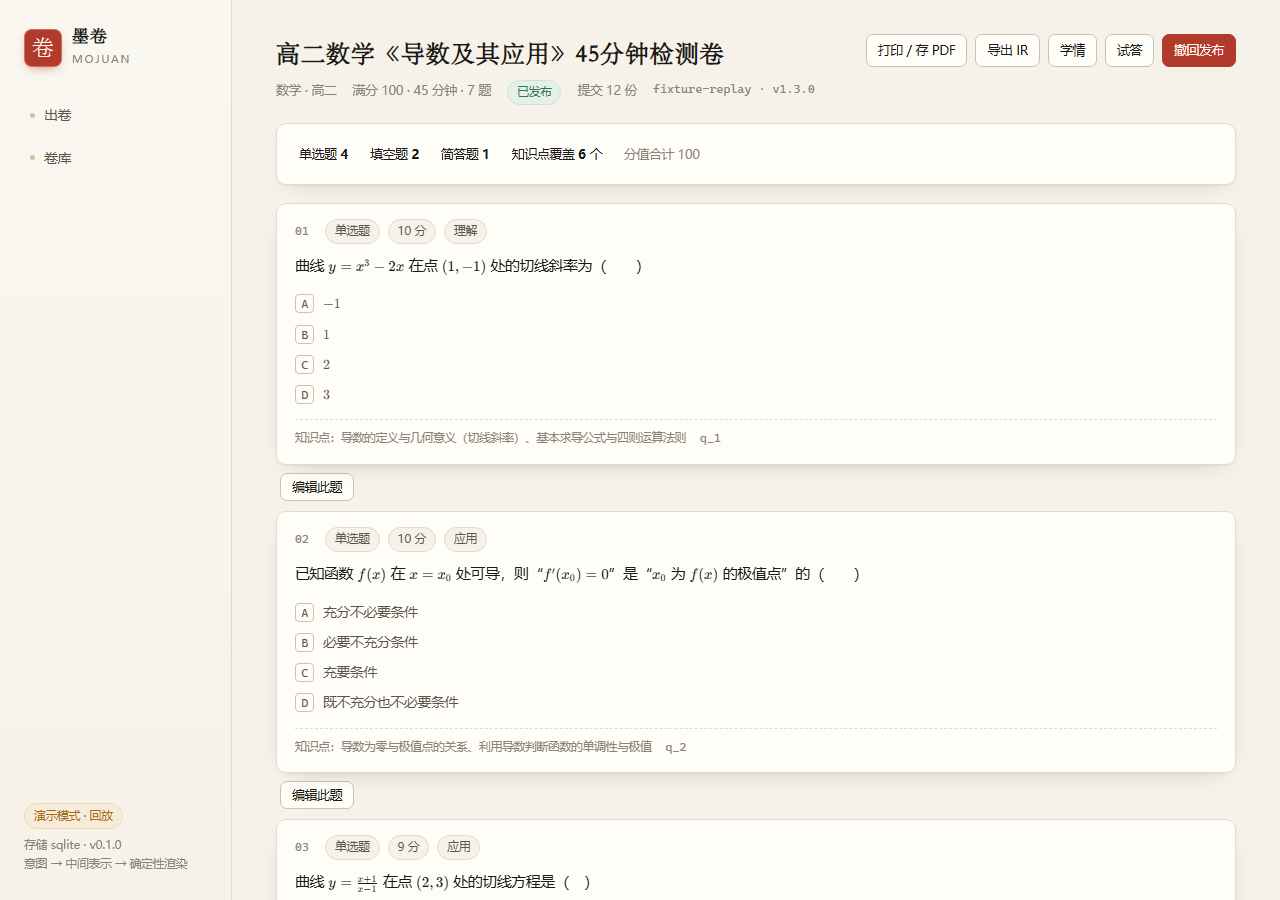
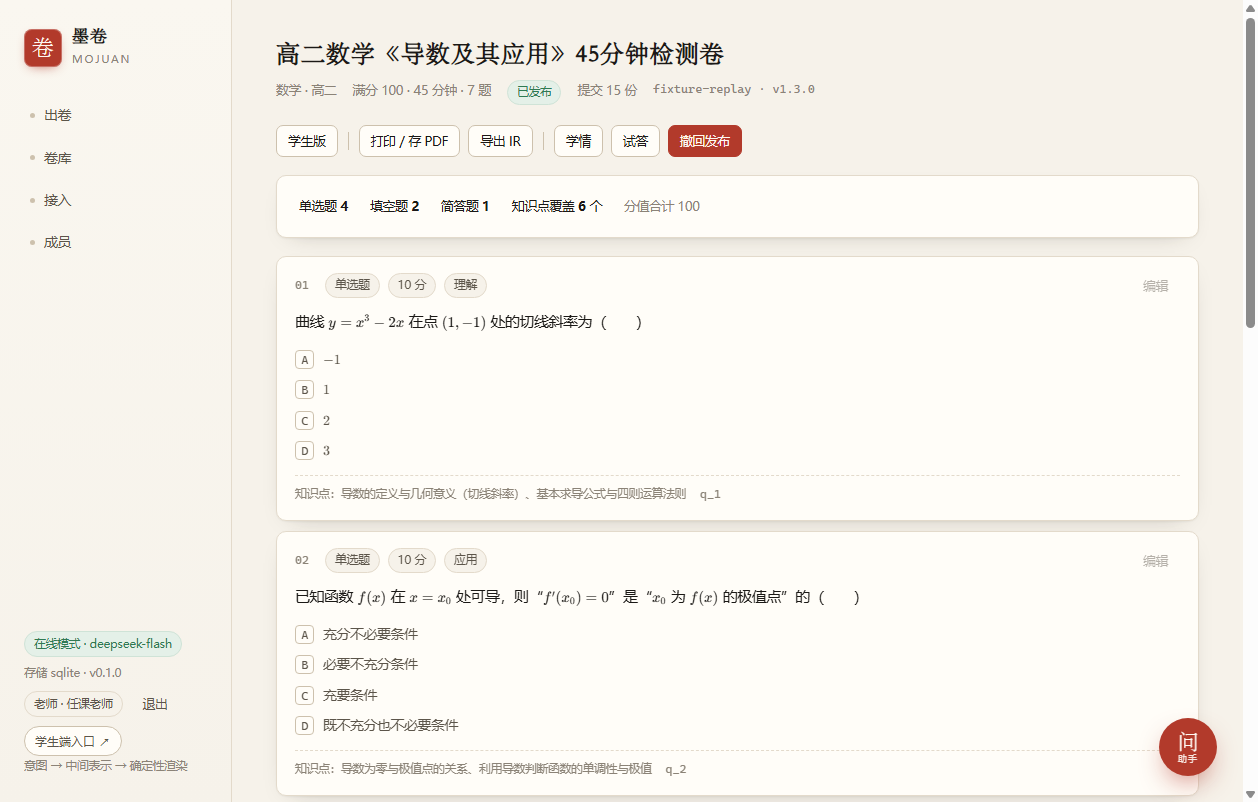
fix(student): 错题回顾入口是死链；顺手重排试卷页
学生端侧边栏的「错题回顾」href 指向 #/student——点了只是原地不动，
用户看到的就是"这个功能用不了"。

- 新增 #/reviews 列表页：按时间列出每次交卷（得分/错题数/时间），点进任一条进入回顾
- 侧边栏「错题回顾」指向该列表，并在 review 子页保持高亮
- 试卷页：题卡外挂的「编辑此题」按钮收进卡片头部右侧（hover 才明显），
  工具条按「视图 / 输出 / 动作 / 发布」分成三组加分隔线，不再六个按钮等权重要

Prompt-ID: P28

diff --git a/web/src/pages/reviews.tsx b/web/src/pages/reviews.tsx
@@ -1,0 +1,71 @@
+import { useEffect, useState } from 'react'
+import { api } from '../api.js'
+
+interface MyAttempt {
+  id: string
+  paperId: string
+  paperTitle: string
+  score: number
+  maxScore: number
+  submittedAt: string
+  wrong: number
+}
+
+/** 错题回顾列表：侧边栏那个入口之前是死链，现在是一个真的页面 */
+export function ReviewsPage({ onNavigate }: { onNavigate: (path: string) => void }) {
+  const [items, setItems] = useState<MyAttempt[] | null>(null)
+  const [error, setError] = useState<string | null>(null)
+
+  useEffect(() => {
+    api
+      .get<{ items: MyAttempt[] }>('/api/student/attempts')
+      .then((res) => setItems(res.items))
+      .catch((err: Error) => setError(err.message))
+  }, [])
+
+  return (
+    <div style={{ display: 'flex', flexDirection: 'column', gap: 18 }}>
+      <header className="page-head">
+        <h1>错题回顾</h1>
+        <p>每次交卷的错题都在这里，点进去逐题对照正确答案与解析。</p>
+      </header>
+
+      {error && <div className="statusbar err">{error}</div>}
+
+      {items === null ? (
+        <div className="stage-empty">载入中…</div>
+      ) : items.length === 0 ? (
+        <div className="card panel muted">还没有交卷记录。去「试卷」做一套吧。</div>
+      ) : (
+        <div style={{ display: 'flex', flexDirection: 'column', gap: 10 }}>
+          {items.map((attempt) => {
+            const percent = attempt.maxScore > 0 ? Math.round((attempt.score / attempt.maxScore) * 100) : 0
+            return (
+              <button
+                key={attempt.id}
+                className="card review-row"
+                onClick={() => onNavigate(`/review/${attempt.id}`)}
+              >
+                <div className="review-row-main">
+                  <strong>{attempt.paperTitle}</strong>
+                  <span className="muted" style={{ fontSize: 12 }}>
+                    {new Date(attempt.submittedAt).toLocaleString('zh-CN')}
+                  </span>
+                </div>
+                <div className="review-row-stats">
+                  <span className={`tag ${percent >= 60 ? 'ok' : 'warn'}`}>
+                    {attempt.score} / {attempt.maxScore}
+                  </span>
+                  <span className={`tag${attempt.wrong > 0 ? ' seal' : ''}`}>
+                    {attempt.wrong > 0 ? `${attempt.wrong} 道错题` : '全对'}
+                  </span>
+                  <span className="review-row-go">查看 →</span>
+                </div>
+              </button>
+            )
+          })}
+        </div>
+      )}
+    </div>
+  )
+}

diff --git a/web/src/App.tsx b/web/src/App.tsx
@@ -11,6 +11,7 @@ import { ComposePage } from './pages/compose.js'
 import { LibraryPage } from './pages/library.js'
 import { PaperPage } from './pages/paper.js'
 import { ReviewPage } from './pages/review.js'
+import { ReviewsPage } from './pages/reviews.js'
 import { SettingsPage } from './pages/settings.js'
 import { StatsPage } from './pages/stats.js'
 import { StudentPage } from './pages/student.js'
@@ -26,6 +27,7 @@ export type Route =
   | { name: 'take'; id: string }
   | { name: 'stats'; id: string }
   | { name: 'review'; id: string }
+  | { name: 'reviews' }
 
 function parseRoute(hash: string): Route {
   const parts = hash.replace(/^#\/?/, '').split('/').filter(Boolean)
@@ -37,6 +39,7 @@ function parseRoute(hash: string): Route {
   if (head === 'paper' && id) return { name: 'paper', id }
   if (head === 'take' && id) return { name: 'take', id }
   if (head === 'stats' && id) return { name: 'stats', id }
+  if (head === 'reviews') return { name: 'reviews' }
   if (head === 'review' && id) return { name: 'review', id }
   return { name: 'compose' }
 }
@@ -114,7 +117,7 @@ export function App() {
   const allowed: Route['name'][] =
     ROLE === 'teacher'
       ? ['compose', 'library', 'paper', 'take', 'stats', 'settings', 'members']
-      : ['student', 'take', 'review']
+      : ['student', 'take', 'review', 'reviews']
   // 直接敲别的端的地址也不该串台，回落本端首页
   const view: Route = allowed.includes(route.name)
     ? route
@@ -160,7 +163,7 @@ export function App() {
               <a href="#/student" className={view.name === 'student' ? 'active' : ''}>
                 <i className="dot" />试卷
               </a>
-              <a href="#/student" className={view.name === 'review' ? 'active' : ''}>
+              <a href="#/reviews" className={view.name === 'review' || view.name === 'reviews' ? 'active' : ''}>
                 <i className="dot" />错题回顾
               </a>
             </>
@@ -219,6 +222,7 @@ export function App() {
         {view.name === 'compose' && <ComposePage onNavigate={go} />}
         {view.name === 'library' && <LibraryPage onNavigate={go} />}
         {view.name === 'student' && <StudentPage onNavigate={go} />}
+        {view.name === 'reviews' && <ReviewsPage onNavigate={go} />}
         {view.name === 'review' && <ReviewPage id={view.id} onNavigate={go} />}
         {view.name === 'settings' && <SettingsPage />}
         {view.name === 'members' && <MembersPage />}

diff --git a/web/src/pages/paper.tsx b/web/src/pages/paper.tsx
@@ -160,12 +160,14 @@ export function PaperPage({ id, onNavigate }: { id: string; onNavigate: (path: s
           >
             {showKey ? '教师版（含答案）' : '学生版'}
           </button>
+          <span className="actions-sep" />
           <button className="btn btn-sm" onClick={() => window.print()}>
             打印 / 存 PDF
           </button>
           <a className="btn btn-sm" href={`/api/papers/${id}/paper.json`} download>
             导出 IR
           </a>
+          <span className="actions-sep" />
           <button className="btn btn-sm" onClick={() => onNavigate(`/stats/${id}`)}>
             学情
           </button>
@@ -197,9 +199,20 @@ export function PaperPage({ id, onNavigate }: { id: string; onNavigate: (path: s
       <div className="qlist">
         {questions.map((question, index) => (
           <div key={question.id}>
-            <QuestionView index={index} question={question} showAnswer={showKey} />
-            <div className="actions" style={{ marginTop: 8, paddingLeft: 4 }}>
-              {editing === question.id ? (
+            <QuestionView
+              index={index}
+              question={question}
+              showAnswer={showKey}
+              actions={
+                editing === question.id ? null : (
+                  <button className="btn btn-sm btn-ghost" onClick={() => beginEdit(question)}>
+                    编辑
+                  </button>
+                )
+              }
+            />
+            {editing === question.id && (
+              <div className="actions" style={{ marginTop: 8, paddingLeft: 4 }}>
                 <div className="card panel editbox" style={{ flex: 1 }}>
                   <label className="field">
                     <span className="label">题干（支持 Markdown 与 $LaTeX$）</span>
@@ -241,12 +254,8 @@ export function PaperPage({ id, onNavigate }: { id: string; onNavigate: (path: s
                     </button>
                   </div>
                 </div>
-              ) : (
-                <button className="btn btn-sm" onClick={() => beginEdit(question)}>
-                  编辑此题
-                </button>
-              )}
-            </div>
+              </div>
+            )}
           </div>
         ))}
       </div>

diff --git a/web/src/styles.css b/web/src/styles.css
@@ -695,3 +695,29 @@ table.plain tr:last-child td { border-bottom: none; }
   padding: 3px 8px;
 }
 .login-fill:hover { color: var(--seal); }
+
+/* ── 试卷页细节 ──────────────────────────────────────────── */
+
+/* 工具条分组：一道细线比一排等权重按钮清楚得多 */
+.actions-sep { width: 1px; height: 18px; background: var(--line-strong); margin: 0 2px; align-self: center; }
+
+/* 题卡操作区：平时淡，鼠标上来才实，避免每张卡外挂一个按钮 */
+.qcard-actions { margin-left: auto; display: flex; gap: 6px; opacity: .45; transition: opacity .15s; }
+.qcard:hover .qcard-actions { opacity: 1; }
+
+/* ── 错题回顾列表 ────────────────────────────────────────── */
+.review-row {
+  display: flex; align-items: center; justify-content: space-between; gap: 16px;
+  padding: 16px 18px; cursor: pointer; text-align: left; width: 100%;
+  transition: transform .15s, box-shadow .2s, border-color .15s;
+}
+.review-row:hover { transform: translateY(-1px); box-shadow: 0 12px 28px -18px rgba(40,33,22,.5); border-color: var(--line-strong); }
+.review-row-main { display: flex; flex-direction: column; gap: 4px; min-width: 0; }
+.review-row-main strong { font-family: var(--font-display); font-size: 15px; letter-spacing: .02em; }
+.review-row-stats { display: flex; align-items: center; gap: 8px; flex-shrink: 0; }
+.review-row-go { font-size: 12px; color: var(--ink-3); }
+.review-row:hover .review-row-go { color: var(--seal); }
+
+@media (max-width: 640px) {
+  .review-row { flex-direction: column; align-items: flex-start; }
+}

diff --git a/web/src/components/question-view.tsx b/web/src/components/question-view.tsx
@@ -1,3 +1,4 @@
+import type { ReactNode } from 'react'
 import type { Question } from '@shared/ir.js'
 import { DIFFICULTY_LABEL, QUESTION_TYPE_LABEL } from '@shared/ir.js'
 import { RichText } from './rich-text.js'
@@ -14,11 +15,14 @@ export function QuestionView({
   question,
   showAnswer = false,
   compact = false,
+  actions,
 }: {
   index: number
   question: Question
   showAnswer?: boolean
   compact?: boolean
+  /** 题卡右上角的操作区（编辑等），不传则不显示 */
+  actions?: ReactNode
 }) {
   const status = STATUS_TAG[question.status]
 
@@ -32,6 +36,7 @@ export function QuestionView({
           {DIFFICULTY_LABEL[question.difficulty as 1 | 2 | 3 | 4 | 5] ?? '未标注'}
         </span>
         {status && <span className={`tag ${status.cls}`}>{status.text}</span>}
+        {actions && <div className="qcard-actions">{actions}</div>}
       </div>
 
       <RichText className="qstem" text={question.stem} />

diff --git a/shared/assistant.ts b/shared/assistant.ts
@@ -8,7 +8,7 @@
 import { z } from 'zod'
 
 export const assistantContextSchema = z.object({
-  page: z.enum(['compose', 'library', 'paper', 'take', 'stats', 'settings', 'student', 'review', 'members']).default('compose'),
+  page: z.enum(['compose', 'library', 'paper', 'take', 'stats', 'settings', 'student', 'review', 'reviews', 'members']).default('compose'),
   paperId: z.string().max(64).optional(),
   /** 用户当前正在看的那道题（1 起） */
   questionIndex: z.number().int().min(1).max(200).optional(),
